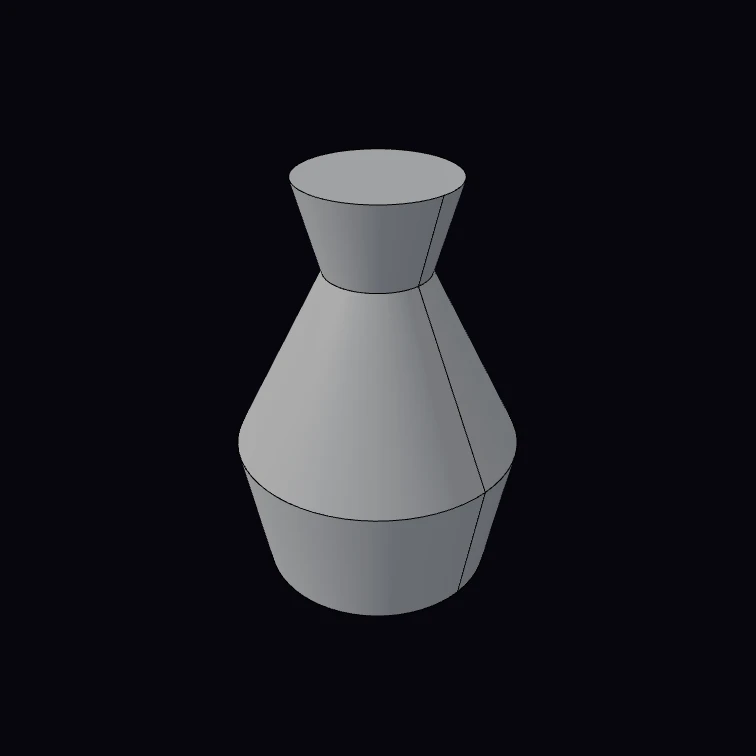
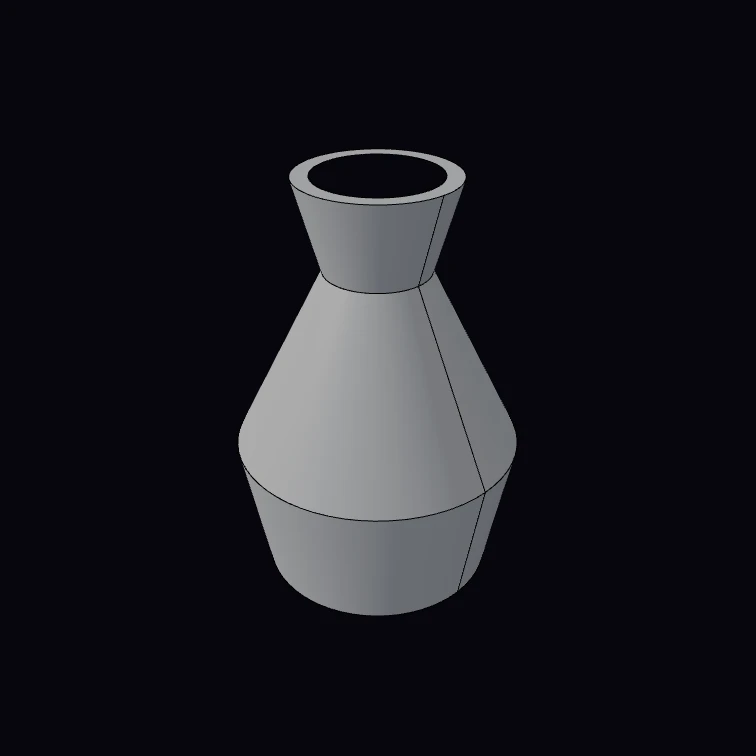
fix(playground): make the vase hollow and fix example switching, export, and related issues
The vase example lofted four circles into a solid blob; it now shells the
loft open into a real watertight vessel (thumbnail regenerated).

Switching/export reliability:
- Export (STL/STEP) re-evaluates the current editor code instead of a cached
  last-eval shape, so the file always matches what's on screen even mid-debounce.
- Example/share/draft loads run immediately instead of riding the 450ms typing
  debounce, so switching renders right away (typing still debounces).
- EditorPanel reconciles the buffer on mount, closing a Monaco-mount race that
  could leave the editor showing stale code while the store diverged.

Other playground fixes surfaced while reviewing:
- Multi-body models (`export default [a, b]`) export every body via a compound
  instead of silently dropping all but the first.
- Ctrl+Shift+\ (Toggle Editor) now fires — it matched e.key, but Shift+\ is '|';
  match the physical Backslash code instead.
- Crash recovery no longer overwrites the user's current code with the last
  successful code (data loss); it restarts and restores the render only.
- downloadBlob inserts the anchor before click() for Firefox robustness.

Changed region(s): [[0.3955, 0.1825, 0.6085, 0.2738]]

diff --git a/apps/playground/src/workers/cad.worker.ts b/apps/playground/src/workers/cad.worker.ts
@@ -17,7 +17,6 @@ function post(msg: FromWorker, transfer?: Transferable[]) {
 let brepjs: any = null;
 
 let brepjsBlobUrl: string | null = null;
-let lastEvalResult: unknown[] | null = null;
 
 // Per-eval cancellation: ids land here when the main thread sends `cancel`
 // or when a newer eval supersedes them. Each `handleEval` checks the set at
@@ -111,7 +110,7 @@ function buildBrepjsWrapperUrl(mod: Record<string, unknown>): string {
   // that becomes a JS module via Blob URL, so any non-identifier would
   // either fail to parse or open a code-injection path.
   const names = Object.keys(mod).filter(
-    (k) => k !== 'default' && k !== 'color' && JS_IDENT_RE.test(k),
+    (k) => k !== 'default' && k !== 'color' && JS_IDENT_RE.test(k)
   );
   const lines = names.map((n) => `export const ${n} = m.${n};`);
   const colorHelper = `export const color = (shape, value) => ({ ${JSON.stringify(PLAYGROUND_COLOR_TAG)}: String(value), shape });`;
@@ -268,11 +267,11 @@ async function handleEval(id: string, code: string) {
     }
 
     const wrappedShapes: unknown[] = Array.isArray(exported) ? exported : [exported];
-    // Strip the color wrapper so `lastEvalResult` (and any downstream
-    // consumer like STL/STEP export) only ever sees raw brepjs shapes.
+    // Strip the color wrapper so meshing only ever sees raw brepjs shapes.
     const shapes = wrappedShapes.map((item) => (isColoredShape(item) ? item.shape : item));
-    const colors = wrappedShapes.map((item) => (isColoredShape(item) ? item[PLAYGROUND_COLOR_TAG] : null));
-    lastEvalResult = shapes;
+    const colors = wrappedShapes.map((item) =>
+      isColoredShape(item) ? item[PLAYGROUND_COLOR_TAG] : null
+    );
 
     // Inspection metadata is only attached to single-shape evals — the
     // viewer's selection model is per-shape and the click → finder flow
@@ -438,14 +437,47 @@ function unwrapResultShape(shape: unknown): unknown {
   return shape;
 }
 
-function handleExportSTL(id: string) {
+// Evaluate user code to its default-exported shapes (color wrapper stripped),
+// the same way handleEval does. Export re-evaluates the exact code being
+// exported rather than reusing the last rendered shape, so the file always
+// matches the editor even if a render is still pending/debounced.
+async function evalDefaultShapes(code: string): Promise<unknown[]> {
+  if (!brepjsBlobUrl) throw new Error('Worker not initialized');
+  const rewritten = rewriteBrepjsImports(stripTypeScript(code), brepjsBlobUrl);
+  const userBlob = new Blob([rewritten], { type: 'application/javascript' });
+  const userBlobUrl = URL.createObjectURL(userBlob);
   try {
-    if (!lastEvalResult || lastEvalResult.length === 0) {
-      post({ type: 'export-error', id, error: 'Run code successfully before exporting STL.' });
+    const userModule = (await import(/* @vite-ignore */ userBlobUrl)) as { default?: unknown };
+    const exported = userModule.default;
+    if (exported == null) return [];
+    const wrapped = Array.isArray(exported) ? exported : [exported];
+    return wrapped.map((item) => (isColoredShape(item) ? item.shape : item));
+  } finally {
+    URL.revokeObjectURL(userBlobUrl);
+  }
+}
+
+// Reduce the default export to a single shape for IO: a multi-body model
+// (`export default [a, b]`) is wrapped in a compound so every body is written,
+// not just the first.
+function exportableShape(shapes: unknown[]): unknown {
+  const bodies = shapes.map(unwrapResultShape);
+  return bodies.length === 1 ? bodies[0] : brepjs.compound(bodies);
+}
+
+async function handleExportSTL(id: string, code: string) {
+  try {
+    const shapes = await evalDefaultShapes(code);
+    if (shapes.length === 0) {
+      post({
+        type: 'export-error',
+        id,
+        error: 'No model to export — check that your code returns a shape.',
+      });
       return;
     }
 
-    const stlResult = brepjs.exportSTL(unwrapResultShape(lastEvalResult[0]), { binary: true });
+    const stlResult = brepjs.exportSTL(exportableShape(shapes), { binary: true });
 
     if (brepjs.isOk(stlResult)) {
       const blob: Blob = stlResult.value;
@@ -460,14 +492,19 @@ function handleExportSTL(id: string) {
   }
 }
 
-function handleExportSTEP(id: string) {
+async function handleExportSTEP(id: string, code: string) {
   try {
-    if (!lastEvalResult || lastEvalResult.length === 0) {
-      post({ type: 'export-error', id, error: 'Run code successfully before exporting STEP.' });
+    const shapes = await evalDefaultShapes(code);
+    if (shapes.length === 0) {
+      post({
+        type: 'export-error',
+        id,
+        error: 'No model to export — check that your code returns a shape.',
+      });
       return;
     }
 
-    const stepResult = brepjs.exportSTEP(unwrapResultShape(lastEvalResult[0]));
+    const stepResult = brepjs.exportSTEP(exportableShape(shapes));
 
     if (brepjs.isOk(stepResult)) {
       const blob: Blob = stepResult.value;
@@ -499,10 +536,10 @@ addEventListener('message', (e: MessageEvent<ToWorker>) => {
       setTimeout(() => cancelledIds.delete(msg.id), 5000);
       break;
     case 'export-stl':
-      handleExportSTL(msg.id);
+      void handleExportSTL(msg.id, msg.code);
       break;
     case 'export-step':
-      handleExportSTEP(msg.id);
+      void handleExportSTEP(msg.id, msg.code);
       break;
   }
 });

diff --git a/apps/playground/src/components/playground/EditorPanel.tsx b/apps/playground/src/components/playground/EditorPanel.tsx
@@ -4,7 +4,7 @@ import { usePlaygroundStore } from '../../stores/playgroundStore';
 import { setupMonaco } from '../../lib/monacoSetup';
 
 interface EditorPanelProps {
-  onCodeChange: (code: string) => void;
+  onCodeChange: (code: string, opts?: { immediate?: boolean }) => void;
   onFormat?: { current: (() => void) | null };
   jumpToLineRef?: { current: ((line: number) => void) | null };
 }
@@ -16,7 +16,11 @@ export default function EditorPanel({ onCodeChange, onFormat, jumpToLineRef }: E
   const errorLine = usePlaygroundStore((s) => s.errorLine);
   const editorRef = useRef<Parameters<OnMount>[0] | null>(null);
   const monacoRef = useRef<Parameters<OnMount>[1] | null>(null);
-  // Track last code from user typing to distinguish from external updates
+  // Mirrors the last value we know the model holds. The sync effect and the
+  // mount reconcile set it to a programmatically-pushed value before the edit;
+  // genuine typing changes the model to something else. handleChange uses the
+  // equality to tell an echoed buffer swap (run immediately) from typing
+  // (debounce).
   const lastUserCodeRef = useRef(code);
 
   // beforeMount fires before the Editor instance is created, so the theme is
@@ -29,6 +33,17 @@ export default function EditorPanel({ onCodeChange, onFormat, jumpToLineRef }: E
     (editor, monaco) => {
       editorRef.current = editor;
       monacoRef.current = monaco;
+
+      // A setCode (share link / draft restore / example) can land before Monaco
+      // finishes its async mount; the sync effect early-returns while editorRef
+      // is null and never re-runs, leaving the buffer stale. Reconcile to the
+      // authoritative store code now. The echoed change runs immediately via
+      // handleChange's external-equality check.
+      const current = usePlaygroundStore.getState().code;
+      if (editor.getValue() !== current) {
+        lastUserCodeRef.current = current;
+        editor.setValue(current);
+      }
 
       // Register format function for external access
       if (onFormat) {
@@ -56,9 +71,12 @@ export default function EditorPanel({ onCodeChange, onFormat, jumpToLineRef }: E
   const handleChange = useCallback(
     (value: string | undefined) => {
       const newCode = value ?? '';
+      // An echo of a programmatic buffer swap arrives equal to the value the
+      // sync effect/mount reconcile just recorded; typing differs from it.
+      const isExternal = newCode === lastUserCodeRef.current;
       lastUserCodeRef.current = newCode;
       setCode(newCode);
-      onCodeChange(newCode);
+      onCodeChange(newCode, { immediate: isExternal });
     },
     [setCode, onCodeChange]
   );

diff --git a/apps/playground/src/lib/examples/basics.ts b/apps/playground/src/lib/examples/basics.ts
@@ -29,18 +29,39 @@ const t = translate(torus(7, 2), [0, -25, 0]);
 export default [s, b, c, co, t];
 `;
 
-const vase = `import { sketchCircle, sketchLoft } from 'brepjs/quick';
+const vase = `import {
+  sketchCircle,
+  sketchLoft,
+  shell,
+  faceFinder,
+  isSolid,
+  isValidSolid,
+  unwrap,
+} from 'brepjs/quick';
 
 // Build a vase by lofting between four circular cross-sections at different
-// heights. Each ring is a planar Sketch; sketchLoft fits a smooth surface
-// through them and caps the ends to make a watertight solid. Tweak the radii
-// for different silhouettes.
+// heights, then hollowing it out so it's a real vessel: thin walls with an
+// open top, not a solid blob. Tweak the radii for different silhouettes.
 const base = sketchCircle(18, { plane: 'XY', origin: [0, 0, 0] });
 const belly = sketchCircle(22, { plane: 'XY', origin: [0, 0, 22] });
 const neck = sketchCircle(8, { plane: 'XY', origin: [0, 0, 50] });
 const lip = sketchCircle(12, { plane: 'XY', origin: [0, 0, 64] });
 
-export default sketchLoft(base, [belly, neck, lip]);
+// sketchLoft fits a smooth surface through the rings and caps the ends to make
+// a watertight solid. The type guards narrow it to a ValidSolid so shell() can
+// take it (modifiers only accept solids proven valid).
+const solid = sketchLoft(base, [belly, neck, lip]);
+if (!isSolid(solid) || !isValidSolid(solid)) {
+  throw new Error('loft did not produce a valid solid');
+}
+
+// shell() deletes the chosen face(s) and offsets every remaining wall inward by
+// the thickness. We remove just the top cap — the disc the lip sits on — by
+// matching the one face that touches the lip-centre point at z = 64.
+const wallThickness = 2.5;
+const openTop = faceFinder().atDistance(0, [0, 0, 64]);
+
+export default unwrap(shell(solid, openTop, wallThickness));
 `;
 
 const pegboard = `import { box, cutAll, cylinder, unwrap } from 'brepjs/quick';
@@ -139,7 +160,7 @@ export const BASIC_EXAMPLES: readonly Example[] = [
   {
     id: 'vase',
     label: 'Vase (lofted)',
-    description: 'A vase lofted through four circular cross-sections.',
+    description: 'A hollow vase lofted through four circular cross-sections, then shelled.',
     code: vase,
   },
   {

diff --git a/apps/playground/src/hooks/useCodeExecution.ts b/apps/playground/src/hooks/useCodeExecution.ts
@@ -13,7 +13,11 @@ function downloadBlob(data: BlobPart, filename: string, mime: string): void {
   const link = document.createElement('a');
   link.href = url;
   link.download = filename;
+  // Firefox historically ignores click() on a detached anchor — match the
+  // screenshot path and insert it before triggering the download.
+  document.body.appendChild(link);
   link.click();
+  link.remove();
   URL.revokeObjectURL(url);
 }
 
@@ -131,11 +135,12 @@ export function useCodeExecution() {
       return;
     }
 
-    // Restore last successful code and re-execute
-    toastStore.addToast('Worker crashed. Restarting and restoring last successful code...');
+    // Restart and re-render the last good shape so the viewer recovers — but
+    // DON'T overwrite the editor: the code the user has now (which may be what
+    // crashed) is their work, and silently replacing it loses edits.
+    toastStore.addToast('Worker crashed and was restarted — your code is unchanged.');
     if (restartRef.current) {
       await restartRef.current();
-      playgroundStore.setCode(lastSuccessfulCode);
       submitEval(lastSuccessfulCode);
     }
   }, [submitEval]);

diff --git a/apps/playground/src/hooks/usePlaygroundActions.ts b/apps/playground/src/hooks/usePlaygroundActions.ts
@@ -12,7 +12,7 @@ import { DEFAULT_CODE } from '../lib/constants';
 import type { Example } from '../lib/examples';
 
 export interface PlaygroundActions {
-  onCodeChange: (code: string) => void;
+  onCodeChange: (code: string, opts?: { immediate?: boolean }) => void;
   handleRun: () => void;
   handleShare: () => void;
   handleExportSTL: () => void;
@@ -32,11 +32,15 @@ export function usePlaygroundActions(): PlaygroundActions {
   const handleScreenshot = useScreenshot();
   const resetViewerDefaults = useViewerStore((s) => s.resetViewerDefaults);
 
+  // Typing debounces; an external buffer swap (example/share/draft load) runs
+  // immediately so the viewer reflects the switch without the 450 ms typing
+  // delay — that lag was what made example switching feel unreliable.
   const onCodeChange = useCallback(
-    (newCode: string) => {
-      debouncedRun(newCode);
+    (newCode: string, opts?: { immediate?: boolean }) => {
+      if (opts?.immediate) runCode(newCode);
+      else debouncedRun(newCode);
     },
-    [debouncedRun]
+    [debouncedRun, runCode]
   );
 
   const handleRun = useCallback(() => {

diff --git a/apps/playground/src/hooks/useKeyboardShortcuts.ts b/apps/playground/src/hooks/useKeyboardShortcuts.ts
@@ -25,11 +25,11 @@ export function useKeyboardShortcuts(actions: ShortcutActions, shortcuts: Shortc
       const ctrl = e.ctrlKey || e.metaKey;
       const inEditable = isEditableTarget(e.target);
       for (const def of shortcutsRef.current) {
-        if (
-          ctrl === def.ctrl &&
-          e.shiftKey === def.shift &&
-          e.key.toLowerCase() === def.key.toLowerCase()
-        ) {
+        // Shift changes the printed char (Shift+\ → '|'), so a `\` binding can
+        // never match on e.key when it requires Shift — match the physical key.
+        const keyMatches =
+          def.key === '\\' ? e.code === 'Backslash' : e.key.toLowerCase() === def.key.toLowerCase();
+        if (ctrl === def.ctrl && e.shiftKey === def.shift && keyMatches) {
           // Skip layout toggles (Ctrl+B / Ctrl+\\) when the user is typing —
           // those overlap with Monaco's own keybindings.
           if (inEditable && def.inEditor === false) return;

diff --git a/apps/playground/src/components/playground/MobileLayout.tsx b/apps/playground/src/components/playground/MobileLayout.tsx
@@ -7,7 +7,7 @@ import { usePlaygroundStore } from '../../stores/playgroundStore';
 type Tab = 'editor' | 'viewer' | 'console';
 
 interface MobileLayoutProps {
-  onCodeChange: (code: string) => void;
+  onCodeChange: (code: string, opts?: { immediate?: boolean }) => void;
   editorFormatRef: { current: (() => void) | null };
   editorJumpToLineRef: { current: ((line: number) => void) | null };
 }
@@ -110,10 +110,7 @@ function PaneShell({ active, children }: { active: boolean; children: React.Reac
   // alone leaves them in the focus order, so a user pressing Tab could land
   // on something they can't see.
   return (
-    <div
-      className={`absolute inset-0 ${active ? '' : 'invisible'}`}
-      inert={!active}
-    >
+    <div className={`absolute inset-0 ${active ? '' : 'invisible'}`} inert={!active}>
       {children}
     </div>
   );

diff --git a/apps/playground/src/components/playground/DesktopLayout.tsx b/apps/playground/src/components/playground/DesktopLayout.tsx
@@ -8,7 +8,7 @@ import CollapsedConsoleBar from './CollapsedConsoleBar';
 
 interface Props {
   panels: PlaygroundPanels;
-  onCodeChange: (code: string) => void;
+  onCodeChange: (code: string, opts?: { immediate?: boolean }) => void;
   formatRef: { current: (() => void) | null };
   jumpToLineRef: { current: ((line: number) => void) | null };
   onJumpToLine: (line: number) => void;
